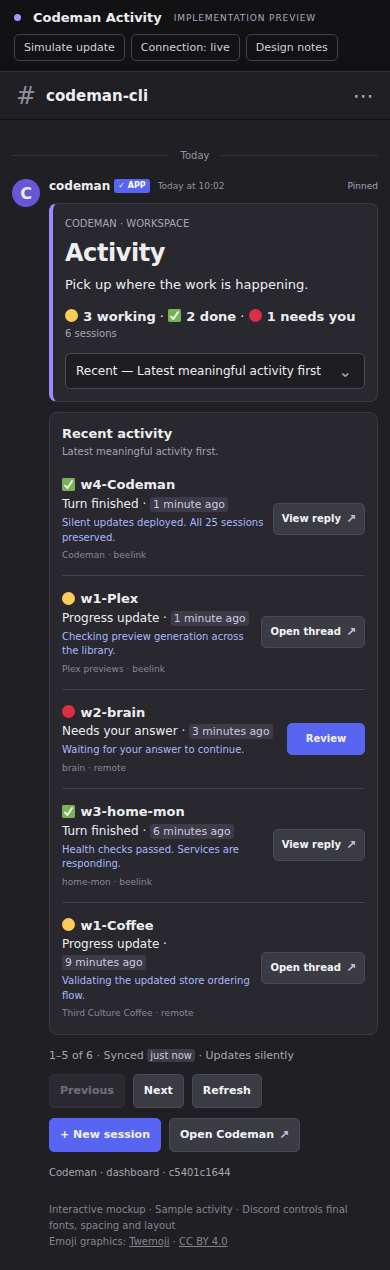
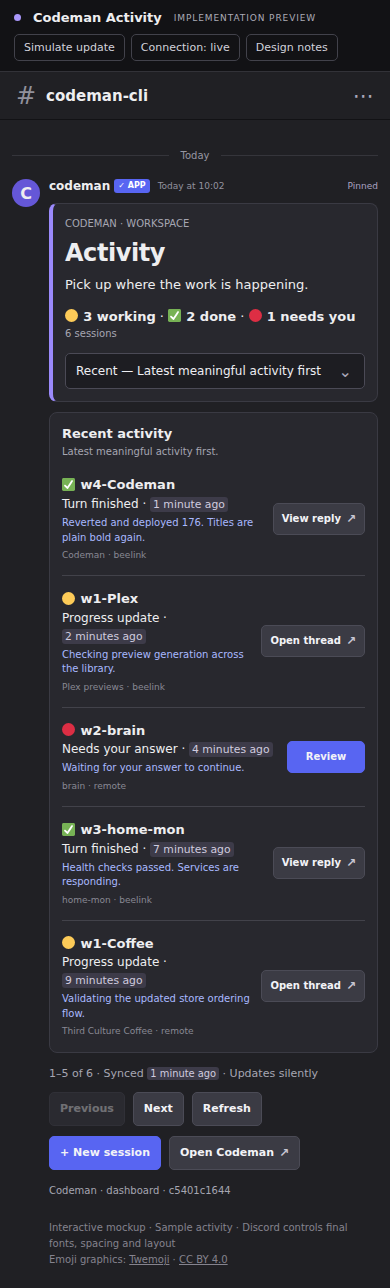
fix(discord): normalize nested URLs in Activity preview links (#177)

diff --git a/test/discord-native-ui.test.ts b/test/discord-native-ui.test.ts
@@ -1534,7 +1534,7 @@ it('renders the approved five-row activity layout using actual session events', 
   f.host.responseMessage = async (id) => String(777777777777777777n + BigInt(Number(id.slice(1))));
   const ages = [22, 76, 194, 357, 528, 741];
   const summaries = [
-    'Silent updates deployed. All 25 sessions preserved.',
+    'Reverted and deployed [176](https://github.com/johoja12/Codeman/pull/176). Titles are plain bold again.',
     'Checking preview generation across the library.',
     'Waiting for your approval to continue.',
     'Health checks passed. Services are responding.',
@@ -1604,5 +1604,34 @@ it('keeps a plain session heading and a clickable preview without making Review 
   expect(text).toContain('**🟡 w1-Codeman**');
   expect(text).not.toContain(`[🟡 w1-Codeman](${target})`);
   expect(text).toContain(`[Work is in progress.](${target})`);
+  expect(f.host.submit).not.toHaveBeenCalled();
+});
+
+it('renders saved URL-bearing previews as one valid thread link while keeping titles plain', async () => {
+  const f = await fixture();
+  f.sessions[0].working = false;
+  await f.ui.observeHistory('s1', {
+    conversationId: 'conversation-one',
+    partial: false,
+    turns: [
+      {
+        role: 'assistant',
+        cursor: 'a',
+        timestamp: new Date(900000).toISOString(),
+        text: 'Reverted and deployed [176](https://github.com/johoja12/Codeman/pull/176). Titles are plain bold again.',
+      },
+    ],
+  });
+  const stored = (await f.ui.store.snapshot()).activities;
+  expect(Object.values(stored)[0].summary).toContain('https://github.com/');
+  const view = await f.command('codeman');
+  const section = discordUiNodes(view.components).find((n) => n.type === 9)!;
+  const text = String((section.components as Array<{ content: string }>)[0].content);
+  const line = text.split('\n').find((l) => l.startsWith('-# ['))!;
+  expect(text).toContain('**⚫ w1-Codeman**');
+  expect(line).toBe(
+    `-# [Reverted and deployed 176. Titles are plain bold again.](https://discord.com/channels/${guild}/${channel})`
+  );
+  expect((await f.ui.store.snapshot()).activities).toEqual(stored);
   expect(f.host.submit).not.toHaveBeenCalled();
 });

diff --git a/test/discord-activity-feed.test.ts b/test/discord-activity-feed.test.ts
@@ -1,5 +1,5 @@
 import { describe, it, expect } from 'vitest';
-import { activityFromHistory, activityText, newerActivity } from '../src/discord-activity-feed.js';
+import { activityFromHistory, activityText, activityPreviewText, newerActivity } from '../src/discord-activity-feed.js';
 import { nativeExecutions } from '../src/discord-native-execution.js';
 describe('meaningful Discord activity', () => {
   it('ignores invalid times, tools and internal display annotations', () => {
@@ -57,4 +57,30 @@ describe('meaningful Discord activity', () => {
     )!;
     expect(event.summary).toBe('New prompt submitted.');
   });
+});
+
+it.each([
+  [
+    'Reverted and deployed [176](https://github.com/johoja12/Codeman/pull/176). Titles are plain bold again.',
+    'Reverted and deployed 176. Titles are plain bold again.',
+  ],
+  [
+    'The fault matches an OpenSSL bug (https://github.com/openssl/openssl/pull/33481): this is fixed.',
+    'The fault matches an OpenSSL bug: this is fixed.',
+  ],
+  ['See https://example.test/a?x=1&y=2 for details.', 'See for details.'],
+  ['Read <https://example.test/path> and www.example.test/docs.', 'Read and.'],
+  [
+    'The response has (balanced notes) and https://example.test/path(with-parentheses). More detail.',
+    'The response has balanced notes and. More detail.',
+  ],
+  ['A restored preview ending (https://github.com/johoja12/Code', 'A restored preview ending'],
+])('normalizes nested URL labels: %s', (input, expected) => {
+  const label = activityPreviewText(input, 180);
+  expect(label).toBe(expected);
+  expect(label).not.toMatch(/:\/\/|www\.|[\[\]<>]/i);
+});
+it('bounds long labels and leaves URL-only labels empty for the UI fallback', () => {
+  expect(activityPreviewText('x'.repeat(9000))).toHaveLength(120);
+  expect(activityPreviewText('https://example.test')).toBe('');
 });

diff --git a/src/discord-activity-feed.ts b/src/discord-activity-feed.ts
@@ -35,6 +35,15 @@ export const activityText = (text: string, max = 160): string =>
     .replace(/\s+/g, ' ')
     .trim()
     .slice(0, max);
+/** Discord cannot mask a URL inside another masked link's label. Normalize only the preview. */
+export function activityPreviewText(text: string, max = 120): string {
+  const prose = discordDisplayText(text.slice(0, 4000))
+    .replace(/(?:[a-z][a-z0-9+.-]{0,20}:\/\/|www\.)[^\s<>]*/gi, (url) => /[.!?,;:]+$/.exec(url)?.[0] ?? '')
+    .replace(/[()]/g, ' ')
+    .replace(/\s+([.!?,;:])/g, '$1');
+  const label = activityText(prose, max).replace(/\s+([.!?,;:])/g, '$1');
+  return /[\p{L}\p{N}]/u.test(label) ? label : '';
+}
 const rank = { prompt: 0, update: 1, response: 2, interrupted: 3, question: 4, error: 5, completed: 6 };
 export function newerActivity(old: DiscordActivityEvent | undefined, next: DiscordActivityEvent): boolean {
   return !old || next.at > old.at || (next.at === old.at && rank[next.kind] > rank[old.kind]);

diff --git a/src/discord-native-ui.ts b/src/discord-native-ui.ts
@@ -3,6 +3,7 @@ import { createHash, randomUUID } from 'node:crypto';
 import {
   activityFromHistory,
   activityText,
+  activityPreviewText,
   newerActivity,
   DISCORD_ACTIVITY_VIEWS,
   type DiscordActivityEvent,
@@ -1804,7 +1805,7 @@ export class DiscordNativeUi {
           disabled: true,
         };
       const heading = `${icon} ${activityText(s.name, 60)}`;
-      const preview = activityText(summary, 120);
+      const preview = activityPreviewText(summary, 120) || 'Open the thread for the latest update.';
       body.push({
         type: 9,
         components: [

diff --git a/docs/discord-bridge.md b/docs/discord-bridge.md
@@ -286,7 +286,7 @@ Embed limits and fields follow the [Discord message documentation](https://disco
 
 ### Native workspace controls (Full mode)
 
-Full mode maintains an owned session control card in each active session thread and a workspace dashboard in the configured control channel. The main channel uses a live **Activity** card with Recent as the shared default: five sessions ordered by meaningful native activity, relative timestamps, bounded assistant previews, direct thread/response links and guarded Review actions. Session titles use plain bold styling; preview text is a clickable thread link; Discord does not support making container whitespace clickable. Working, Finished and Needs you filters, pagination and Refresh open private views; they never change everyone’s main card. The shared card refreshes silently every 20 seconds. Finished requires native completion evidence and remains in its filter for one hour while the session is idle. Foreground/background/agent-wait work remains Working. Cosmetic updates and reads do not advance recency. Private activity metadata and bounded assistant excerpts survive restarts; user prompt bodies are not copied into the feed. If session reads fail while Discord remains reachable, the card retains its last rows and successful sync time with a connection warning. Cards are pinned when the bot has permission; missing pin permission leaves the card usable. Updates edit the existing owned message and do not ping users. `/codeman` opens a private dashboard; `!codeman ui`, `!codeman dashboard`, `!codeman settings`, `!codeman queue` and `!codeman results` are text fallbacks.
+Full mode maintains an owned session control card in each active session thread and a workspace dashboard in the configured control channel. The main channel uses a live **Activity** card with Recent as the shared default: five sessions ordered by meaningful native activity, relative timestamps, bounded assistant previews, direct thread/response links and guarded Review actions. Session titles use plain bold styling; preview text is a clickable thread link with embedded URLs removed from its label to avoid nested-link rendering failures; Discord does not support making container whitespace clickable. Working, Finished and Needs you filters, pagination and Refresh open private views; they never change everyone’s main card. The shared card refreshes silently every 20 seconds. Finished requires native completion evidence and remains in its filter for one hour while the session is idle. Foreground/background/agent-wait work remains Working. Cosmetic updates and reads do not advance recency. Private activity metadata and bounded assistant excerpts survive restarts; user prompt bodies are not copied into the feed. If session reads fail while Discord remains reachable, the card retains its last rows and successful sync time with a connection warning. Cards are pinned when the bot has permission; missing pin permission leaves the card usable. Updates edit the existing owned message and do not ping users. `/codeman` opens a private dashboard; `!codeman ui`, `!codeman dashboard`, `!codeman settings`, `!codeman queue` and `!codeman results` are text fallbacks.
 
 - **Session card:** shows the exact conversation, observed activity, reported model (or its source), launch approval policy, recent delivery and the latest visible user prompt when available. Interrupt reuses the existing task-bound confirmation. History, pending question, settings, queue, result/file actions and an exact web-session link are available from the card. Unknown runtime effort is shown as unknown; launch defaults are not treated as live verification.
 - **Delivery receipts:** received, input delivered, native submitted, working and finished are separate states. Transport acceptance does not prove submission or completion. An unconfirmed submission must be inspected before resending; neither gateway redelivery nor restart repeats it. Emoji reactions and the session control card show processing status; routine per-prompt delivery cards are not posted. Delivery tracking and downloadable execution receipts remain available. Legacy delivery cards are removed only after verifying their saved bot ownership and exact marker in an active owned thread; archived, foreign or edited messages are left alone.
